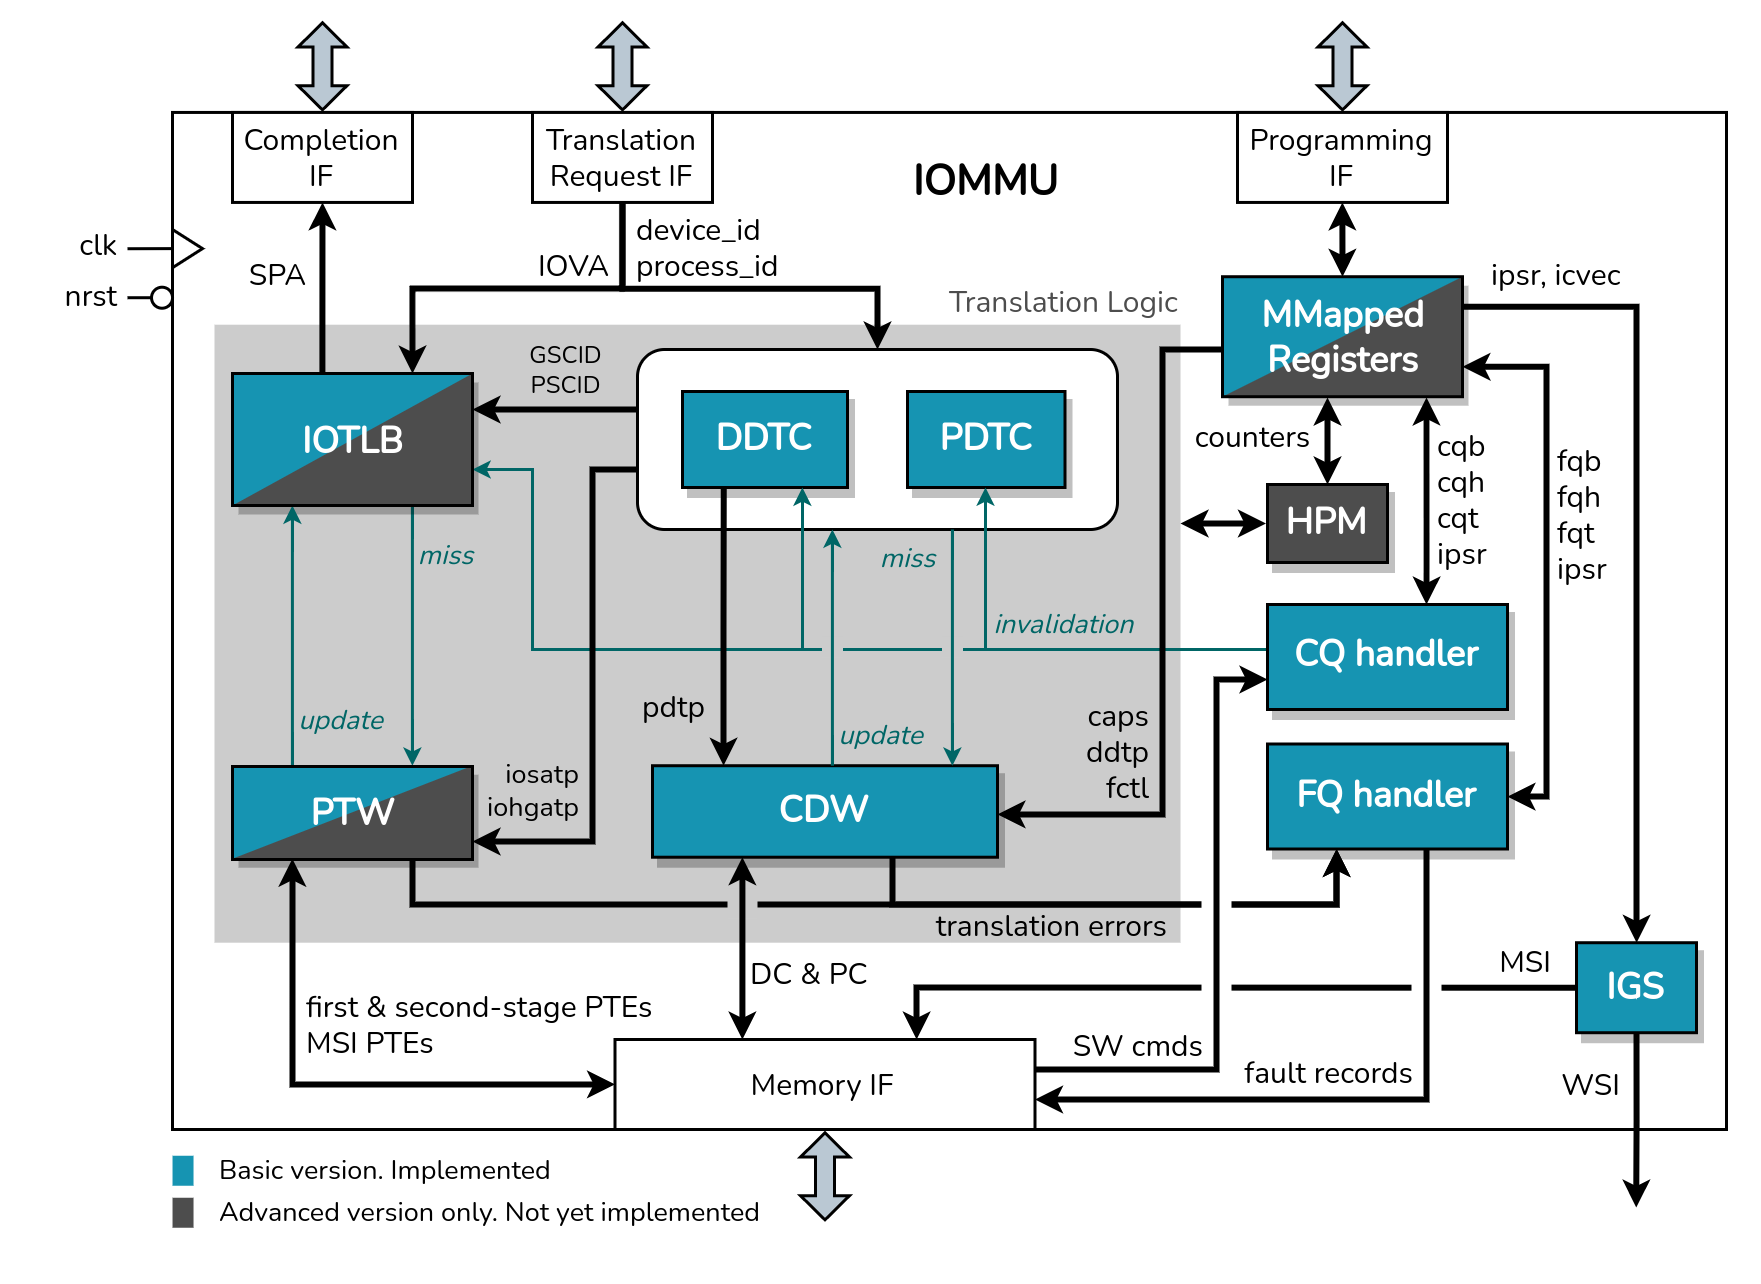
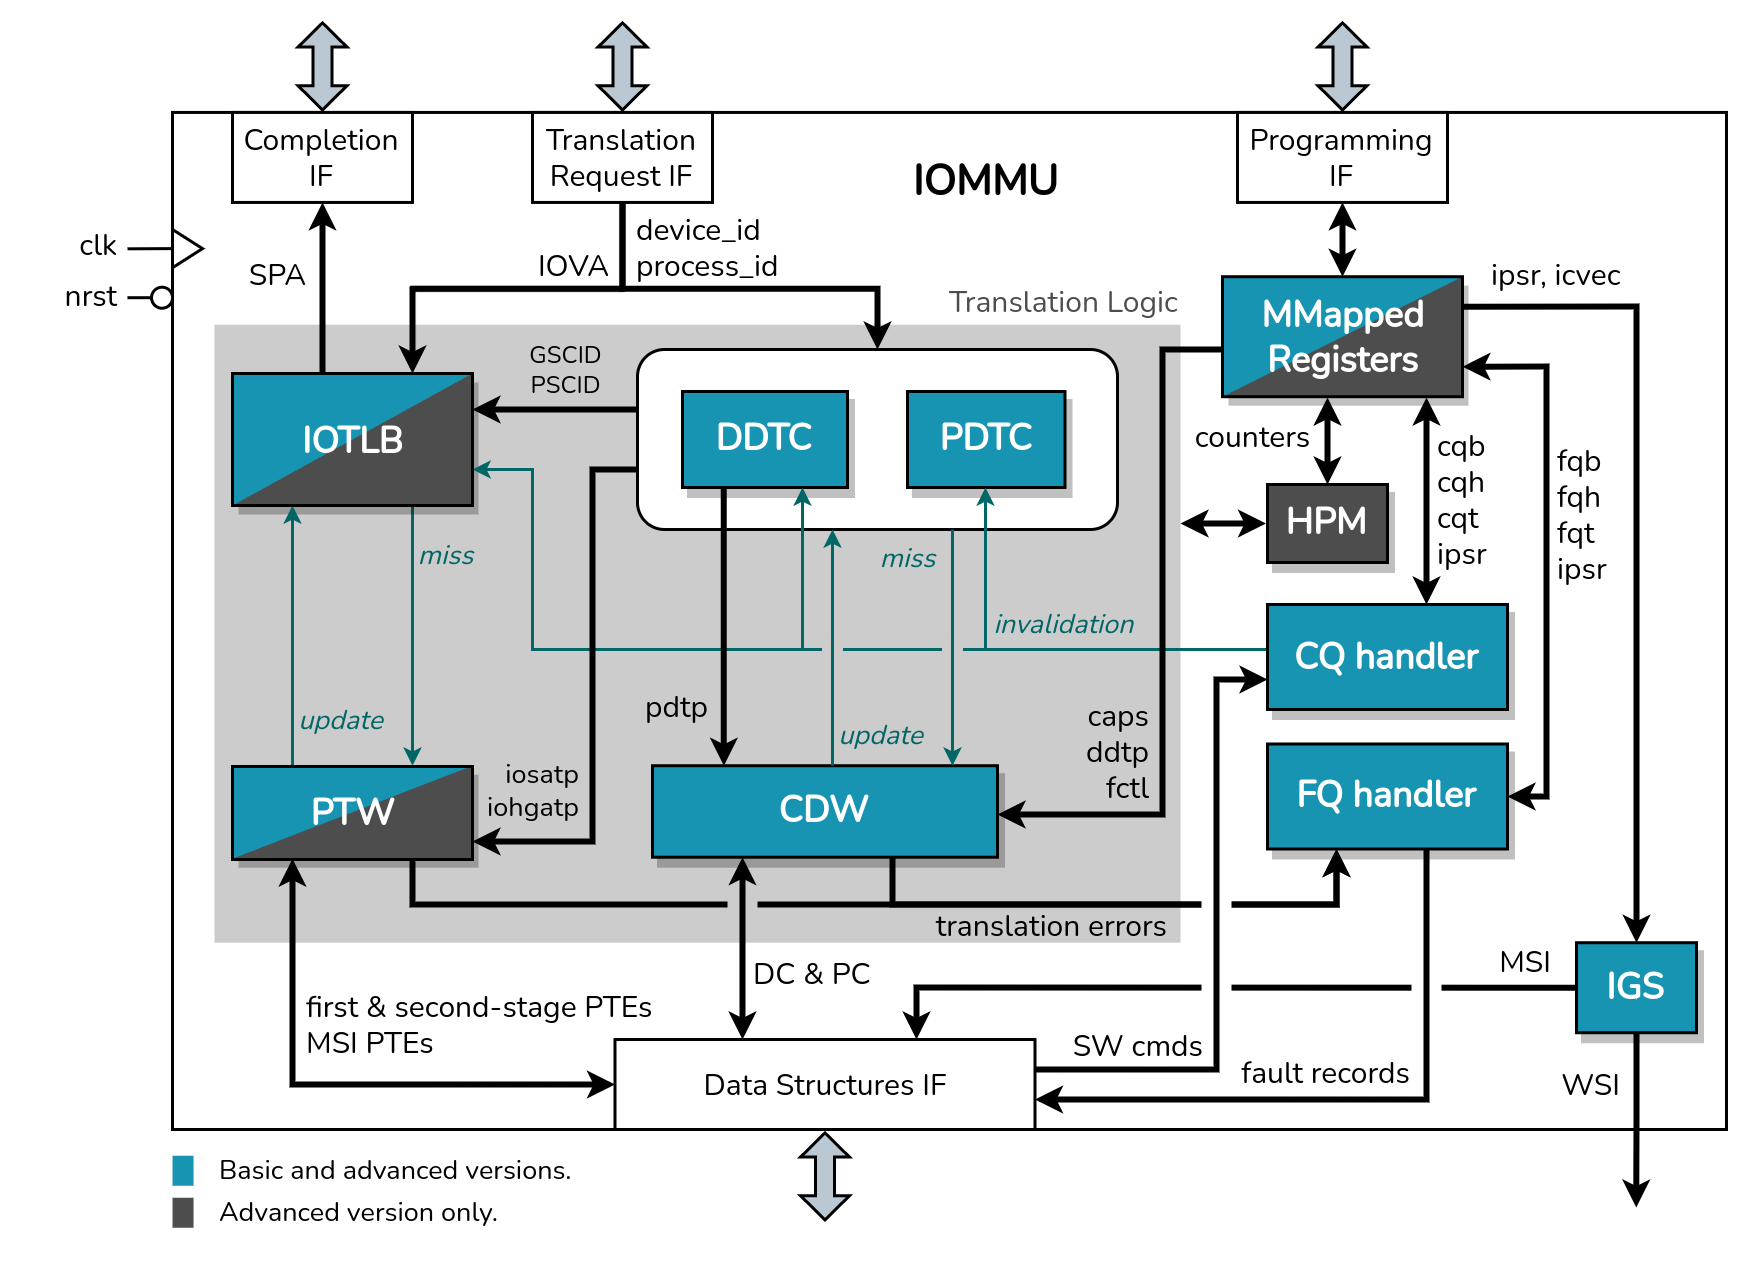
update README

diff --git a/README.md b/README.md
@@ -30,7 +30,7 @@ This work is licensed under the Apache-2.0 License and the Solderpad Hardware Li
 
 This repository contains the RTL implementation of an Input/Output Memory Management Unit (IOMMU), compliant with the [RISC-V IOMMU Specification](https://github.com/riscv-non-isa/riscv-iommu). An IOMMU performs permission checks, address translation and interrupt remapping on requests originated by DMA-capable IO devices.
 
-***This implementation is currently under development.***
+**Disclaimer**: *This implementation is currently under development.*
 
 A basic version of the IOMMU IP with mandatory features defined by the spec and virtualization support has been achieved and validated. However, it's still possible to find some minor bugs. The internal design of the IP is ilustrated in the diagram below. Advanced modules/features are presented in gray, and are not implemented yet.
 
@@ -50,8 +50,8 @@ All SystemVerilog header files required to build the IP are located in the *incl
 ### **Required SV packages *(packages)***
 All SystemVerilog packages required to build the IP are located in the *packages* folder.
 
-### **RTL source files *(src)***
-The *src* folder contains all SystemVerilog source files that make up the IP.
+### **RTL source files *(rtl)***
+The *rtl* folder contains all SystemVerilog source files that make up the IP.
 
 ### **Standalone components *(vendor)***
 The *vendor* folder holds SystemVerilog source files of all standalone RTL modules used in the IOMMU IP.
@@ -89,7 +89,9 @@ Four AXI4-Full interfaces are used by the IOMMU to operate:
 
 Slave interface used by RISC-V harts to program and monitor the memory-mapped registers of the IOMMU. These registers must be located within a naturally aligned 4-KiB region of physical address space.
 
-### **Memory Interface**
+![My Image](doc/ext_interfaces/reg_if.png)
+
+### **Data Structures Interface**
 
 Master interface used by modules that generate implicit memory accesses during the translation process. Arbitration logic is used to control access to this interface. The following table summarizes these modules and the data structures accessed by them. 
 
@@ -101,13 +103,13 @@ Master interface used by modules that generate implicit memory accesses during t
 | Fault Queue handler | Fault Queue |
 | Interrupt Generation (IGS) | IOMMU-generated MSIs |
 
-![My Image](doc/AXI/memory_if.png)
+![My Image](doc/ext_interfaces/mem_if.png)
 
 ### **Translation Request Interface**
 
 Slave interface to which DMA-capable devices connect to request address translations. A request is initiated by setting *AxVALID*. The input IO Virtual Address is taken from the AxADDR bus.
 
-![My Image](doc/AXI/tr_if.png)
+![My Image](doc/ext_interfaces/tr_comp_if.png)
 
 ### **Translation Completion Interface**
 
